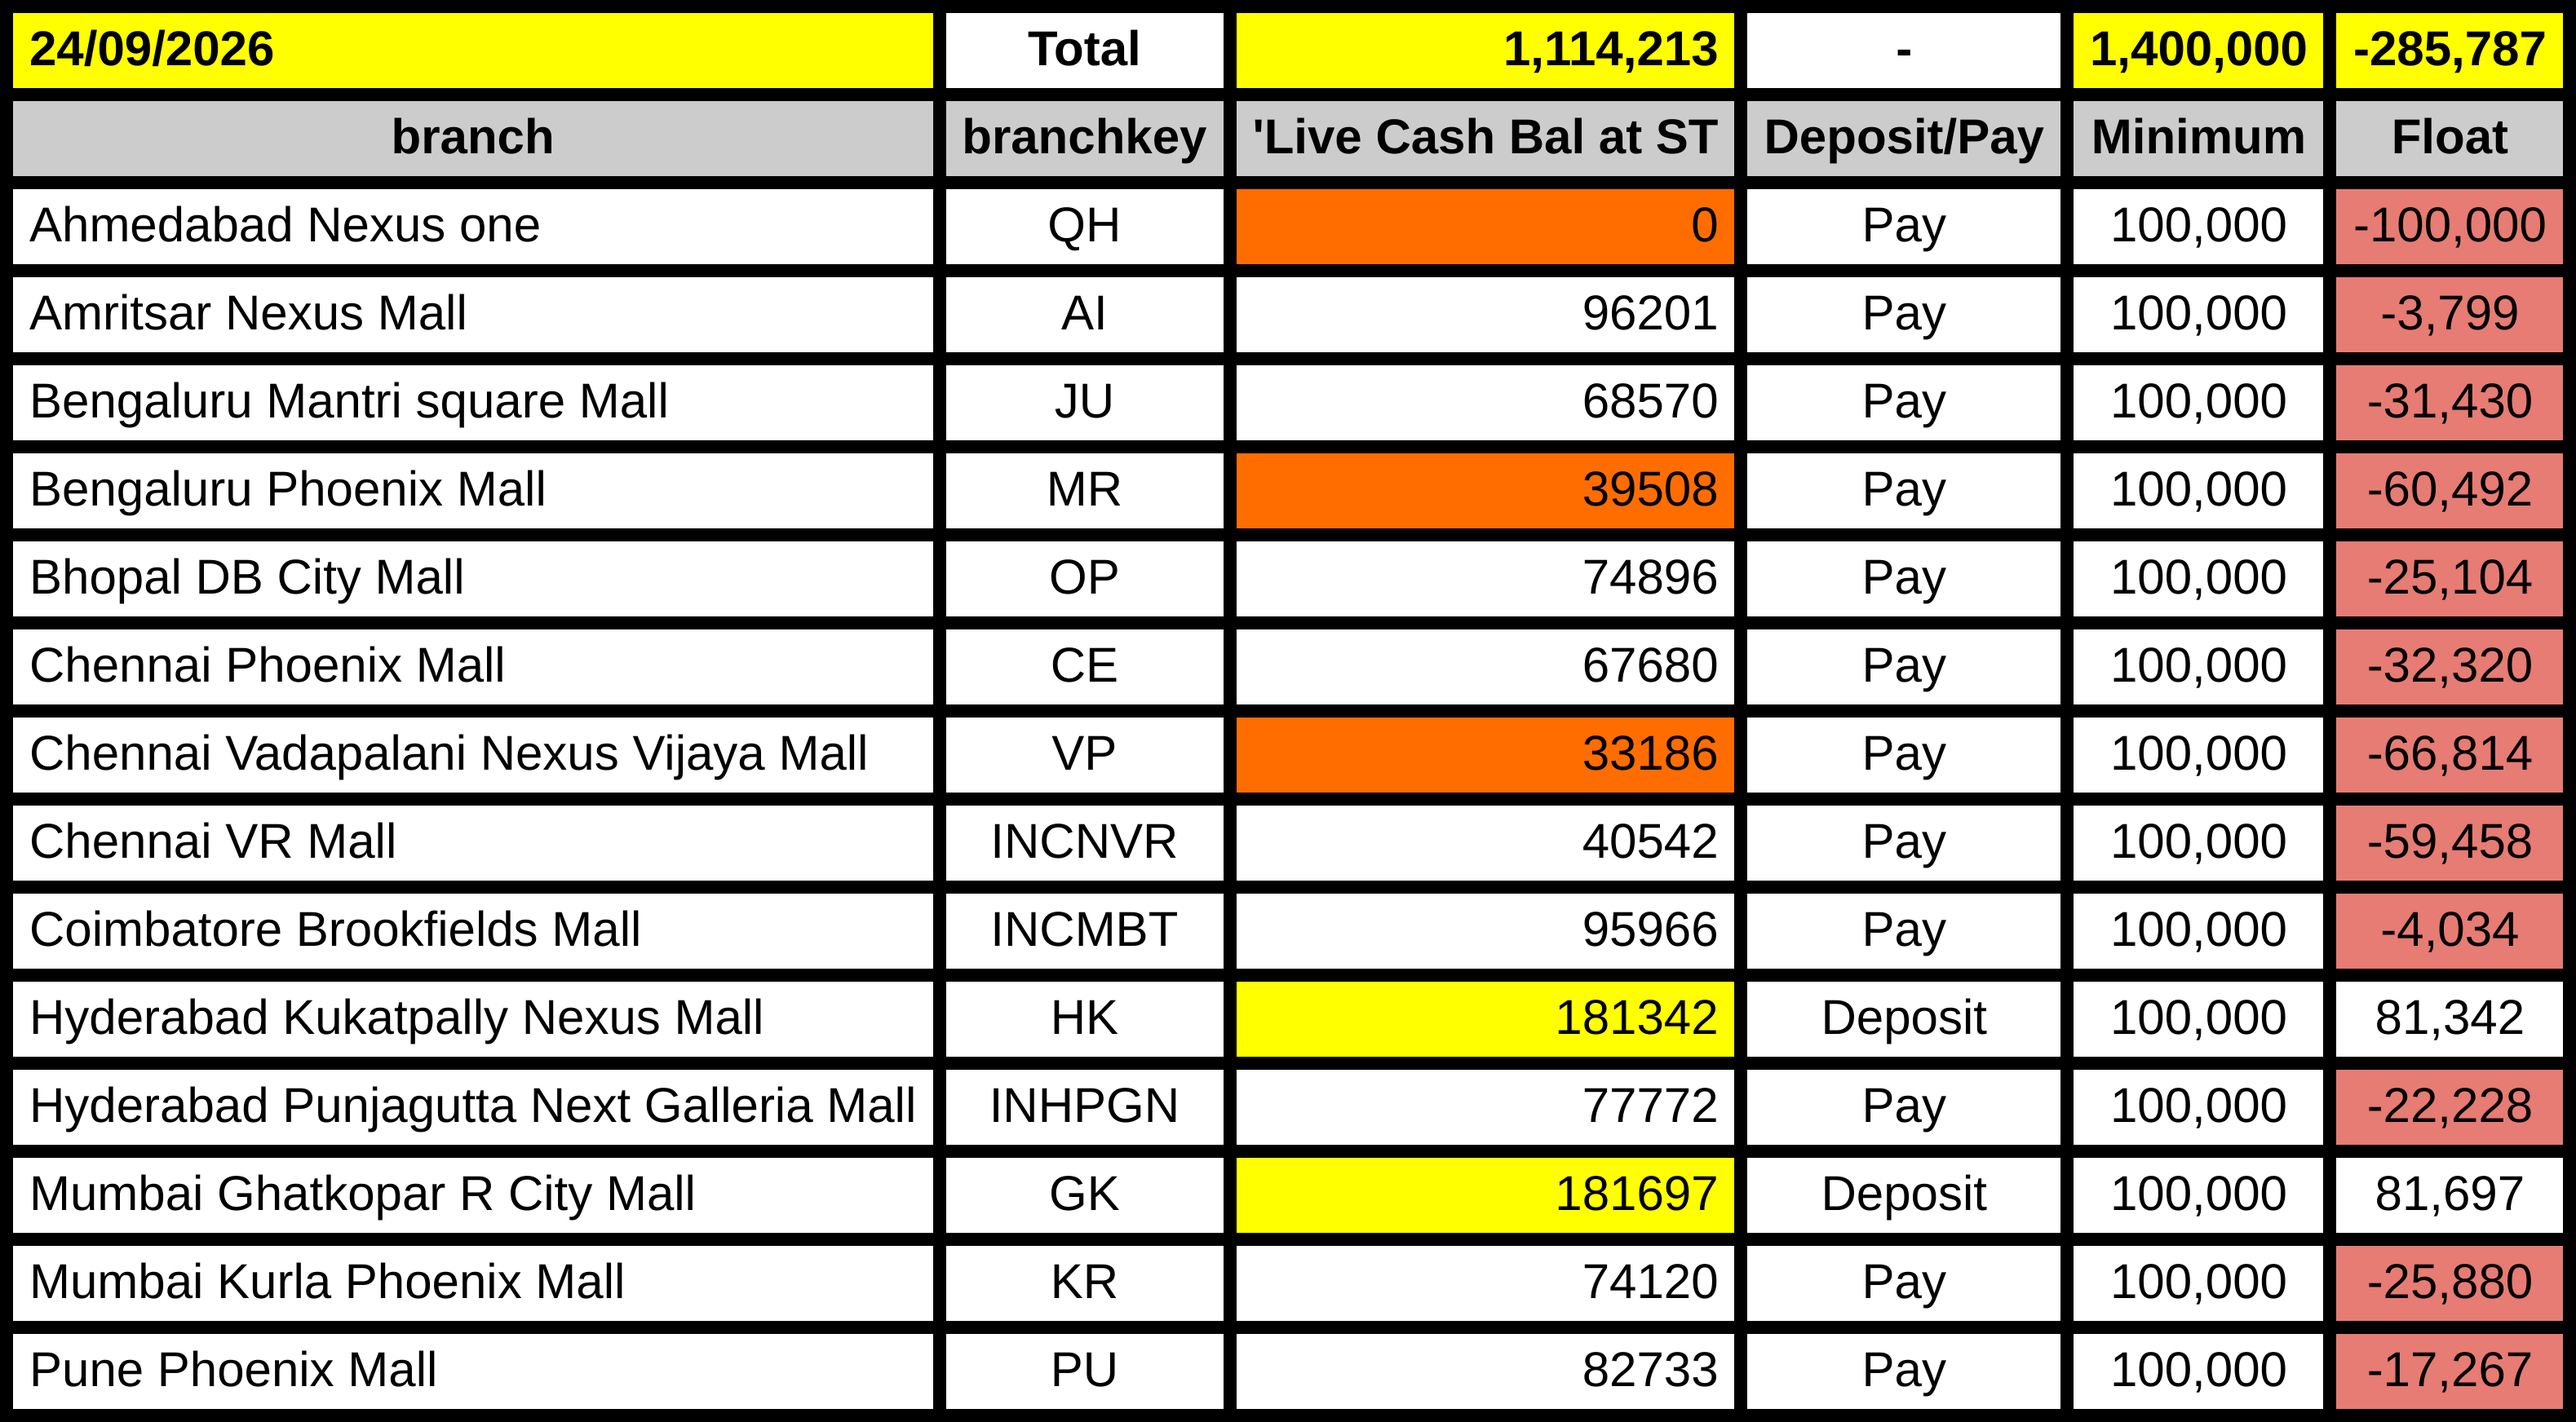
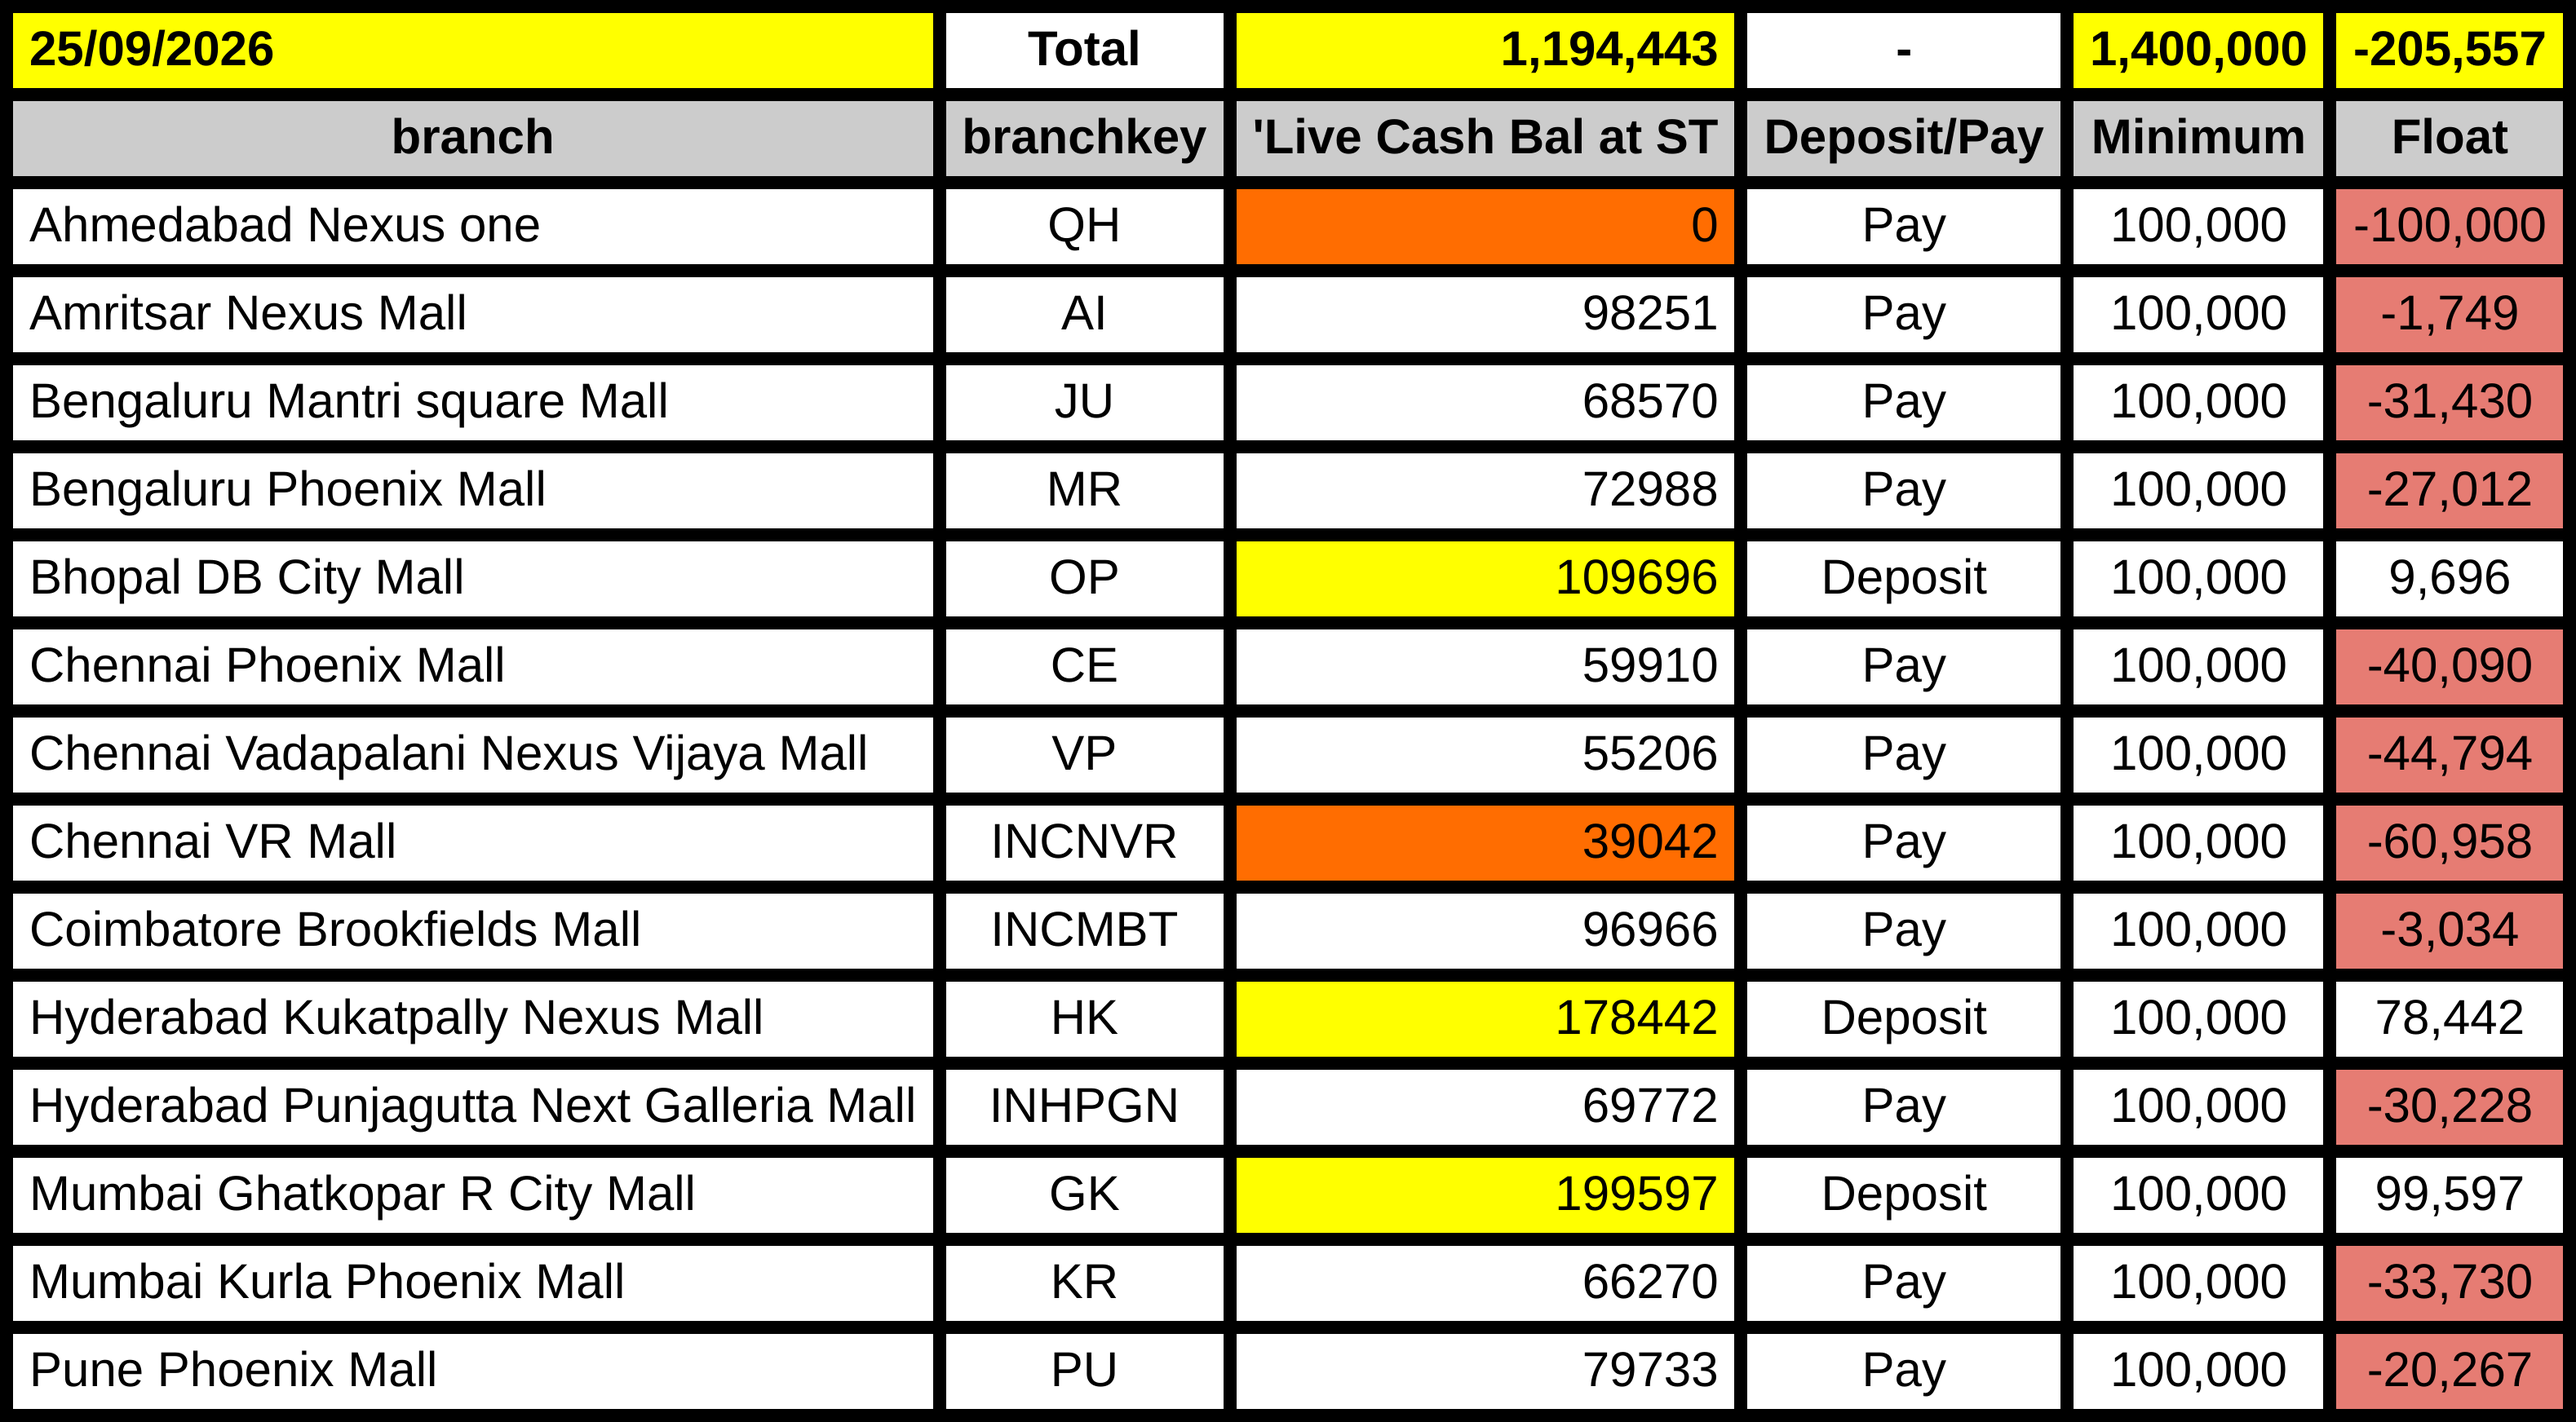
deploy: 1eb6ce62876c9d41067b4594acfaffc291ee4c8b

diff --git a/table.html b/table.html
@@ -21,7 +21,7 @@
           font-family: Arial, sans-serif;
           font-size: 30px;
           white-space: nowrap;
-        ">24/09/2026</td>
+        ">25/09/2026</td>
       
         <td style="
           background-color: #ffffff;
@@ -49,7 +49,7 @@
           font-family: Arial, sans-serif;
           font-size: 30px;
           white-space: nowrap;
-        ">1,114,213</td>
+        ">1,194,443</td>
       
         <td style="
           background-color: #ffffff;
@@ -91,7 +91,7 @@
           font-family: Arial, sans-serif;
           font-size: 30px;
           white-space: nowrap;
-        ">-285,787</td>
+        ">-205,557</td>
       </tr><tr>
         <td style="
           background-color: #cccccc;
@@ -301,7 +301,7 @@
           font-family: Arial, sans-serif;
           font-size: 30px;
           white-space: nowrap;
-        ">96201</td>
+        ">98251</td>
       
         <td style="
           background-color: #ffffff;
@@ -343,7 +343,7 @@
           font-family: Arial, sans-serif;
           font-size: 30px;
           white-space: nowrap;
-        ">-3,799</td>
+        ">-1,749</td>
       </tr><tr>
         <td style="
           background-color: #ffffff;
@@ -458,7 +458,7 @@
         ">MR</td>
       
         <td style="
-          background-color: #ff6d01;
+          background-color: #ffffff;
           color: #000000;
           font-weight: normal;
           font-style: normal;
@@ -469,7 +469,7 @@
           font-family: Arial, sans-serif;
           font-size: 30px;
           white-space: nowrap;
-        ">39508</td>
+        ">72988</td>
       
         <td style="
           background-color: #ffffff;
@@ -511,7 +511,7 @@
           font-family: Arial, sans-serif;
           font-size: 30px;
           white-space: nowrap;
-        ">-60,492</td>
+        ">-27,012</td>
       </tr><tr>
         <td style="
           background-color: #ffffff;
@@ -542,7 +542,7 @@
         ">OP</td>
       
         <td style="
-          background-color: #ffffff;
+          background-color: #ffff00;
           color: #000000;
           font-weight: normal;
           font-style: normal;
@@ -553,7 +553,7 @@
           font-family: Arial, sans-serif;
           font-size: 30px;
           white-space: nowrap;
-        ">74896</td>
+        ">109696</td>
       
         <td style="
           background-color: #ffffff;
@@ -567,7 +567,7 @@
           font-family: Arial, sans-serif;
           font-size: 30px;
           white-space: nowrap;
-        ">Pay</td>
+        ">Deposit</td>
       
         <td style="
           background-color: #ffffff;
@@ -584,7 +584,7 @@
         ">100,000</td>
       
         <td style="
-          background-color: #e67c73;
+          background-color: #ffffff;
           color: #000000;
           font-weight: normal;
           font-style: normal;
@@ -595,7 +595,7 @@
           font-family: Arial, sans-serif;
           font-size: 30px;
           white-space: nowrap;
-        ">-25,104</td>
+        ">9,696</td>
       </tr><tr>
         <td style="
           background-color: #ffffff;
@@ -637,7 +637,7 @@
           font-family: Arial, sans-serif;
           font-size: 30px;
           white-space: nowrap;
-        ">67680</td>
+        ">59910</td>
       
         <td style="
           background-color: #ffffff;
@@ -679,7 +679,7 @@
           font-family: Arial, sans-serif;
           font-size: 30px;
           white-space: nowrap;
-        ">-32,320</td>
+        ">-40,090</td>
       </tr><tr>
         <td style="
           background-color: #ffffff;
@@ -710,7 +710,7 @@
         ">VP</td>
       
         <td style="
-          background-color: #ff6d01;
+          background-color: #ffffff;
           color: #000000;
           font-weight: normal;
           font-style: normal;
@@ -721,7 +721,7 @@
           font-family: Arial, sans-serif;
           font-size: 30px;
           white-space: nowrap;
-        ">33186</td>
+        ">55206</td>
       
         <td style="
           background-color: #ffffff;
@@ -763,7 +763,7 @@
           font-family: Arial, sans-serif;
           font-size: 30px;
           white-space: nowrap;
-        ">-66,814</td>
+        ">-44,794</td>
       </tr><tr>
         <td style="
           background-color: #ffffff;
@@ -794,7 +794,7 @@
         ">INCNVR</td>
       
         <td style="
-          background-color: #ffffff;
+          background-color: #ff6d01;
           color: #000000;
           font-weight: normal;
           font-style: normal;
@@ -805,7 +805,7 @@
           font-family: Arial, sans-serif;
           font-size: 30px;
           white-space: nowrap;
-        ">40542</td>
+        ">39042</td>
       
         <td style="
           background-color: #ffffff;
@@ -847,7 +847,7 @@
           font-family: Arial, sans-serif;
           font-size: 30px;
           white-space: nowrap;
-        ">-59,458</td>
+        ">-60,958</td>
       </tr><tr>
         <td style="
           background-color: #ffffff;
@@ -889,7 +889,7 @@
           font-family: Arial, sans-serif;
           font-size: 30px;
           white-space: nowrap;
-        ">95966</td>
+        ">96966</td>
       
         <td style="
           background-color: #ffffff;
@@ -931,7 +931,7 @@
           font-family: Arial, sans-serif;
           font-size: 30px;
           white-space: nowrap;
-        ">-4,034</td>
+        ">-3,034</td>
       </tr><tr>
         <td style="
           background-color: #ffffff;
@@ -973,7 +973,7 @@
           font-family: Arial, sans-serif;
           font-size: 30px;
           white-space: nowrap;
-        ">181342</td>
+        ">178442</td>
       
         <td style="
           background-color: #ffffff;
@@ -1015,7 +1015,7 @@
           font-family: Arial, sans-serif;
           font-size: 30px;
           white-space: nowrap;
-        ">81,342</td>
+        ">78,442</td>
       </tr><tr>
         <td style="
           background-color: #ffffff;
@@ -1057,7 +1057,7 @@
           font-family: Arial, sans-serif;
           font-size: 30px;
           white-space: nowrap;
-        ">77772</td>
+        ">69772</td>
       
         <td style="
           background-color: #ffffff;
@@ -1099,7 +1099,7 @@
           font-family: Arial, sans-serif;
           font-size: 30px;
           white-space: nowrap;
-        ">-22,228</td>
+        ">-30,228</td>
       </tr><tr>
         <td style="
           background-color: #ffffff;
@@ -1141,7 +1141,7 @@
           font-family: Arial, sans-serif;
           font-size: 30px;
           white-space: nowrap;
-        ">181697</td>
+        ">199597</td>
       
         <td style="
           background-color: #ffffff;
@@ -1183,7 +1183,7 @@
           font-family: Arial, sans-serif;
           font-size: 30px;
           white-space: nowrap;
-        ">81,697</td>
+        ">99,597</td>
       </tr><tr>
         <td style="
           background-color: #ffffff;
@@ -1225,7 +1225,7 @@
           font-family: Arial, sans-serif;
           font-size: 30px;
           white-space: nowrap;
-        ">74120</td>
+        ">66270</td>
       
         <td style="
           background-color: #ffffff;
@@ -1267,7 +1267,7 @@
           font-family: Arial, sans-serif;
           font-size: 30px;
           white-space: nowrap;
-        ">-25,880</td>
+        ">-33,730</td>
       </tr><tr>
         <td style="
           background-color: #ffffff;
@@ -1309,7 +1309,7 @@
           font-family: Arial, sans-serif;
           font-size: 30px;
           white-space: nowrap;
-        ">82733</td>
+        ">79733</td>
       
         <td style="
           background-color: #ffffff;
@@ -1351,7 +1351,7 @@
           font-family: Arial, sans-serif;
           font-size: 30px;
           white-space: nowrap;
-        ">-17,267</td>
+        ">-20,267</td>
       </tr>
   </table>
 </body>
